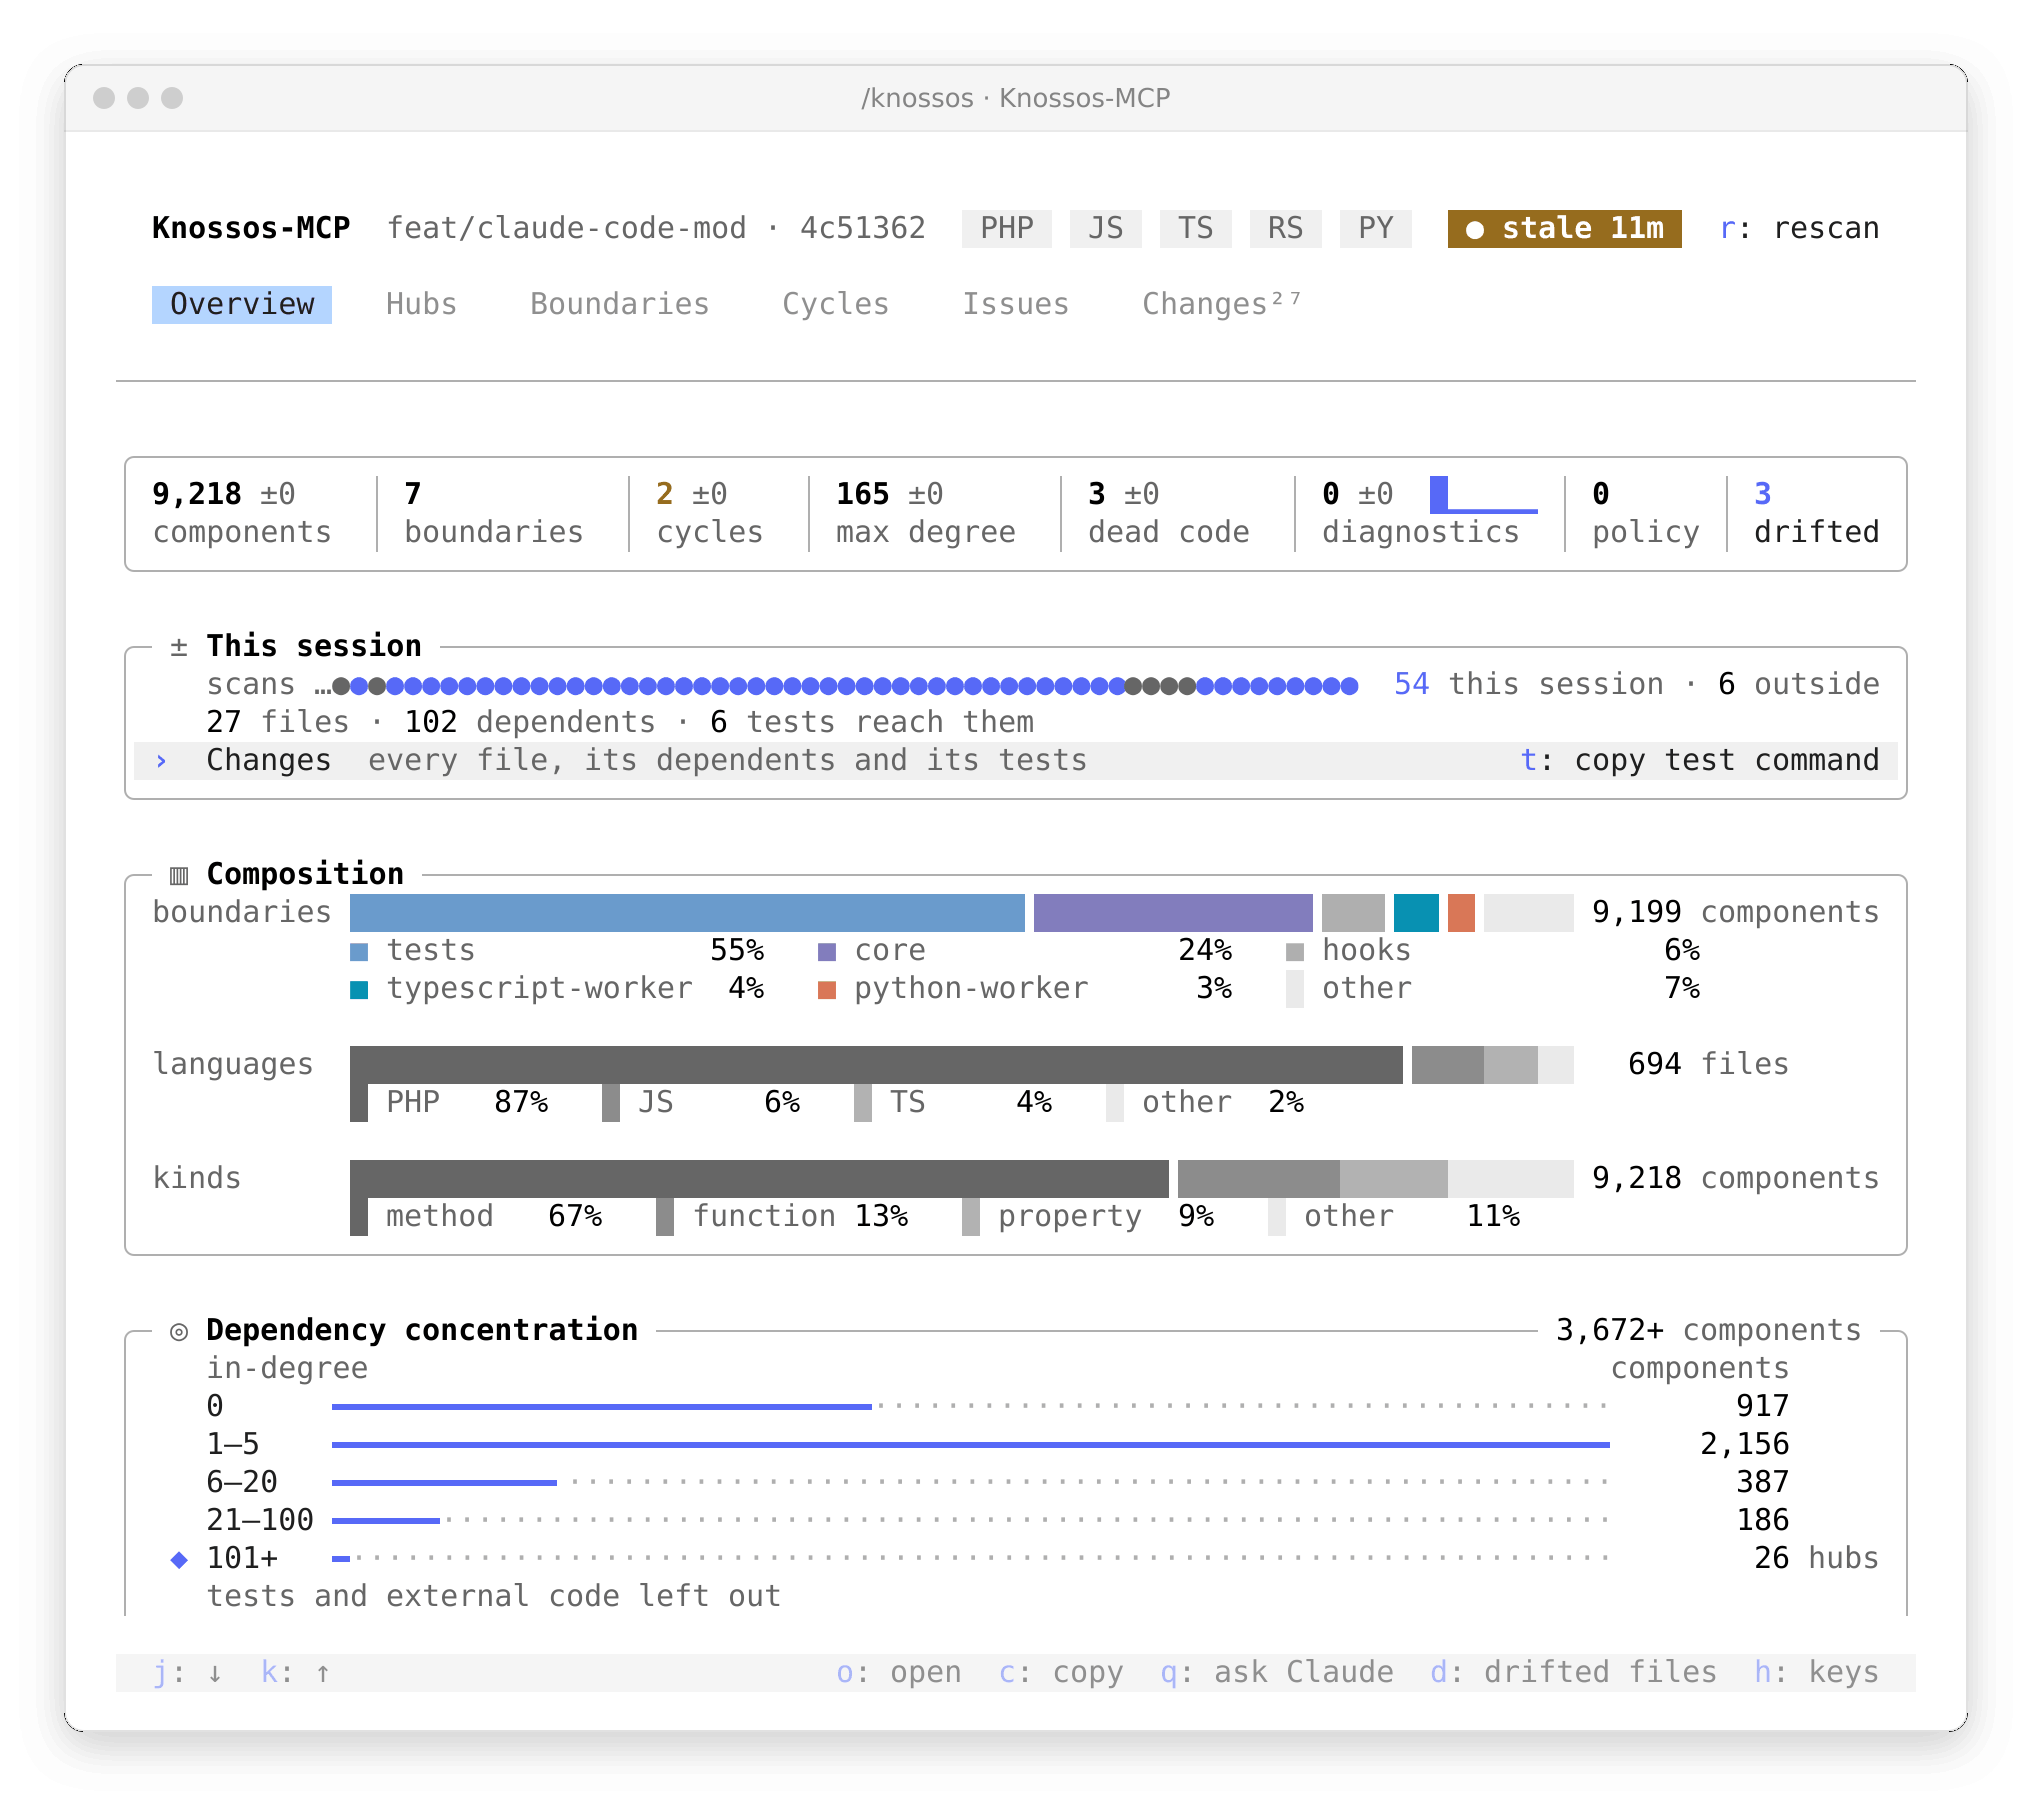
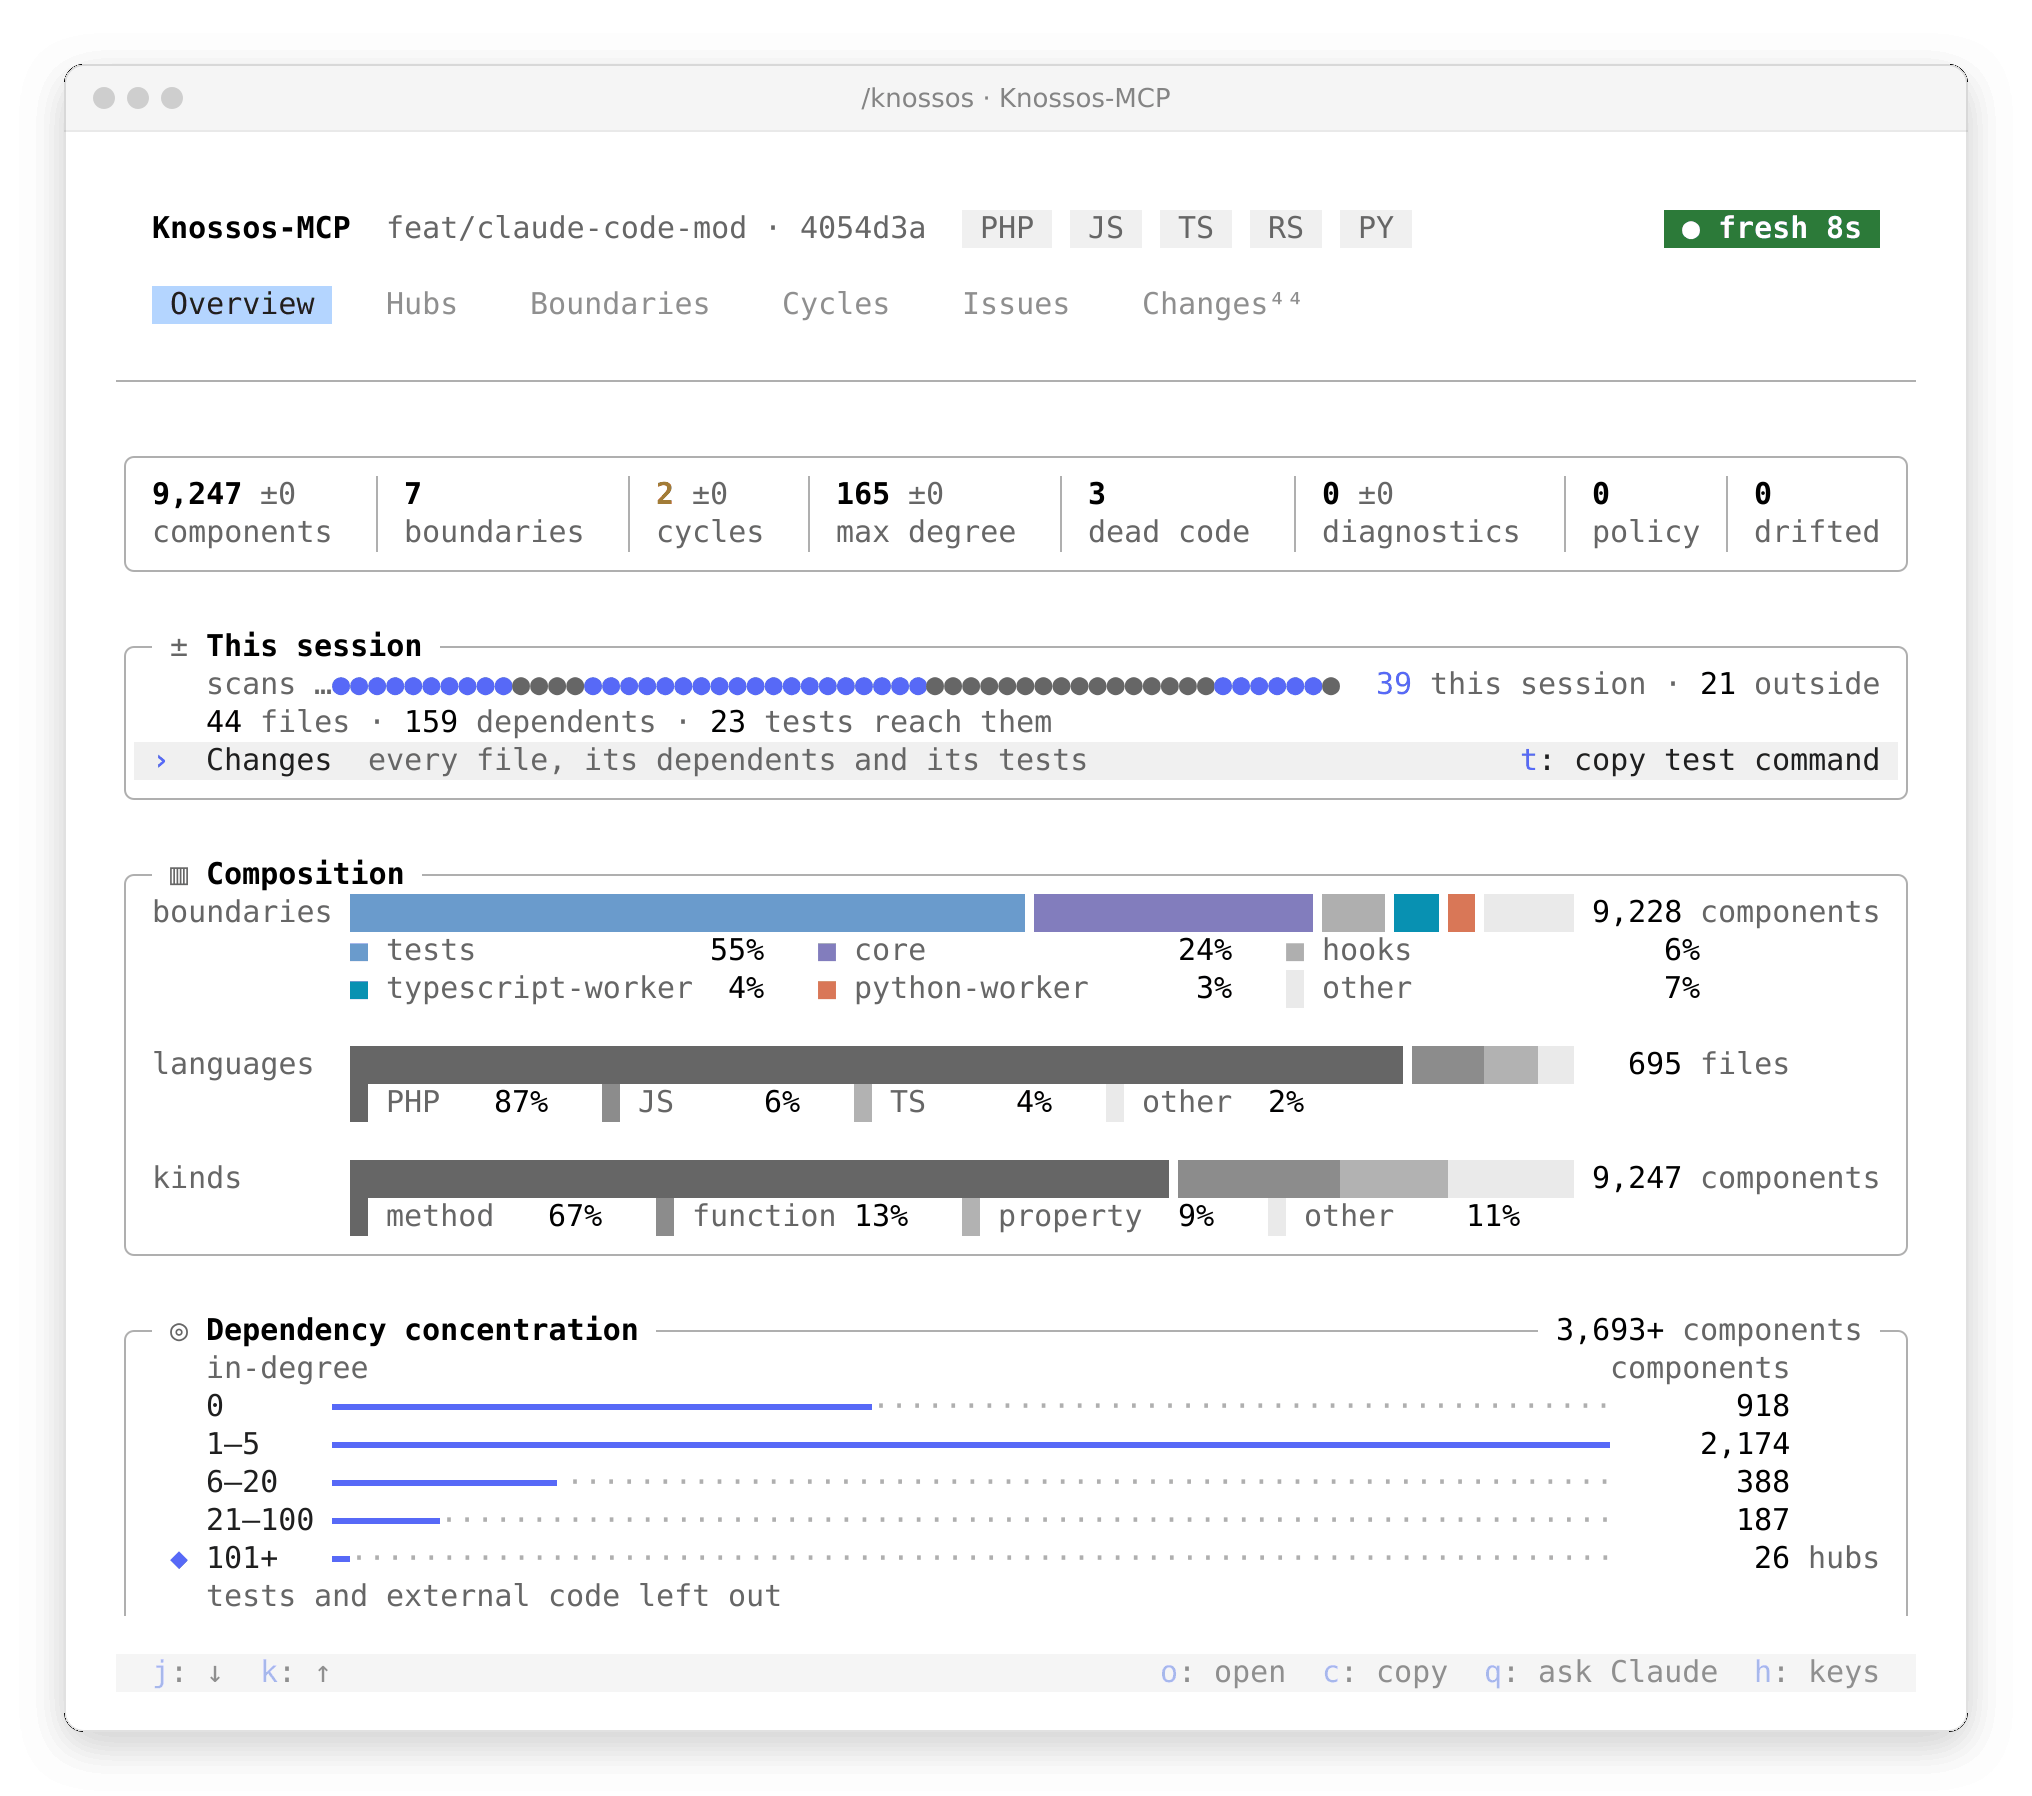
docs(mod): describe the merged scan ledger, the Changes fallback with dates, and the two dead-code counts, and redraw the README screenshots

diff --git a/docs/capabilities/claude-code-mod.md b/docs/capabilities/claude-code-mod.md
@@ -255,7 +255,7 @@ Knossos-MCP                          ● stale 11h   r: rescan
  Overview   2   3   4   5   6³
 
 9,186 components ▲12   7 boundaries   2 cycles ±0
-165 max degree ±0   3 dead code ▼1   0 diagnostics ±0
+165 max degree ±0   3 dead code   0 diagnostics ±0
 0 policy   24 drifted
 
 ── ± This session ──────────────────────────────────────────
@@ -283,8 +283,11 @@ A figure is in the text colour unless it deviates: cycles and diagnostics
 above zero in `warning`, policy violations in `error`, drifted files in the
 accent. Beside each figure, how it moved since the snapshot retained before
 this one (`▲12`, `▼1`, `±0`): the glyph says which way, and only a figure
-that is a status (cycles, dead code, diagnostics) colours it, a rise in
-`warning` and a fall in `success`. A tile draws its trend as a sparkline in
+that is a status (cycles, diagnostics) colours it, a rise in
+`warning` and a fall in `success`. Dead code counts the candidates the Issues
+tab lists, and has no delta or sparkline: the retained snapshots carry only
+the quality gate's wider count of components nothing references, which the
+health card draws as its own row, `gate unreferenced`. A tile draws its trend as a sparkline in
 the accent when it has room and five snapshots or more move. The drifted
 tile's label is the button that lists the drifted files. Each card is framed,
 and its tables add columns:
@@ -370,11 +373,15 @@ Drifted since the snapshot                                 3
     hold (tests and external code left out). `o` or a press on a bucket opens
     Hubs narrowed to it.
 
-    **Health over time:** one row per figure (cycles, unreferenced
-    candidates, maximum degree, diagnostics), each a small chart on its own
+    **Health over time:** one row per figure (cycles, `gate unreferenced`,
+    maximum degree, diagnostics), each a small chart on its own
     scale, all on one time axis (the same snapshots, column for column, oldest
     left), the newest value right-aligned and its range beside it (`no
 change` for a flat one, drawn faint). Only with five snapshots or more.
+    `gate unreferenced` is the quality gate's count of components nothing
+    references, and a line under the axis says so: it is wider than the
+    dead-code tile, which counts the candidates the Issues tab lists, so the
+    two numbers differ by design.
 
     **Cross-boundary flows:** the strongest dependencies from one boundary
     to another, `■ tests → ■ core` and a bar with the count; one a declared
@@ -470,8 +477,14 @@ snapshot>`, read again after each scan the watcher sees, one read at a
   the newest 60). A row too short for all of them keeps the newest behind a
   `…`. With
   no watcher (switched off, or a container install) the tab falls back to
-  what the session's turn briefs reported, added up, and says so; it does the
-  same when the ledger cannot account for every scan since the session began.
+  what the session's turn briefs reported, added up, and says so. When the
+  ledger cannot reach back to the session's start (a ledger an older knossos
+  pruned, or a scan it never recorded), the tab says so with the date the
+  session began, and lists every change since the oldest point the ledger
+  still answers for, with that date in the header (`since 2026-10-04 09:14`);
+  only when it answers for none does it fall back to the turn briefs. A
+  session that began among the scans the ledger keeps merged (see below)
+  lists what changed after it and says its start is approximate.
   Either way it lists every file (most dependents first, `+` added, `−` deleted)
   with its dependents and the boundary it sits in (blank when it sits in
   none, or only in one spanning the whole repository), the boundaries its
@@ -855,8 +868,16 @@ files, the policy violations each held before it. Read in order from the
 turn's snapshot, the first entry that changed a file says what that file was
 before the turn, so the brief's changed, added and deleted files and its
 before-and-after policy check stay the turn's own, whoever scanned the edits.
+A watcher records a scan for every save, so the ledger keeps the newest 200
+entries per project and merges older ones into one span instead of dropping
+them: the span keeps where its first scan started and its last ended, each
+file's hash before its first change and the newest 20 scans that changed it,
+and a short key for each of up to 5,000 of its scans, so a session that
+began among them is still found. A span keeps no policy baselines, and one
+for more than 2,000 files is cut like an entry. The merge runs in the same
+transaction as the recording that sets it off, under that writer's lease.
 When a scan since the turn began was not recorded (a scan of a directory
-below the project's root, say, or one older than the newest 200 entries), or
+below the project's root, say, or one older than the span's 5,000), or
 changed more than 2,000 files (a branch switch: such an entry keeps no file
 list, only that it was cut), the brief still names the files but leaves the
 policy unevaluated rather than guess.
@@ -901,8 +922,8 @@ rescan runs `knossos rescan`, the same incremental scan without the brief.
 The live watcher runs incremental scans as files change, each a `knossos scan`
 process of its own. Those are the only writes to the graph the mod makes, and
 each of them records what it changed in the `scan_ledger` table (migration 019, applied the
-first time an updated knossos opens the database; the newest 200 entries per
-project are kept). The watcher also writes its lock and state files under
+first time an updated knossos opens the database; past 200 entries per
+project the oldest are merged into one bounded span). The watcher also writes its lock and state files under
 `watch/` beside the database. They happen only for a project that
 is already scanned and inside an allowed root, never inside a hook dispatch,
 and never two at a time within a session. The pane's allow-root action writes

diff --git a/README.md b/README.md
@@ -395,7 +395,8 @@ the files, their dependents, the tests that reach them, and how old the figures 
 `/knossos` opens the pane. The Overview measures and leaves the lists to the Hubs tab. A row
 of stat tiles (components, boundaries, cycles, the largest degree, dead code, diagnostics,
 policy violations and drift) says how each figure moved since the previous snapshot, with a
-sparkline where it has a history. Under it: what this session touched and the way to its
+sparkline where it has a history; dead code counts the candidates the Issues tab lists, while
+the health card's `gate unreferenced` row is the quality gate's wider count. Under it: what this session touched and the way to its
 changes, with `t` to copy the command for the tests that reach them; the project as stacked
 bars by boundary, language and kind; how dependencies concentrate, an in-degree histogram
 whose buckets open the hubs in that range; health over time, one row per figure on a shared
